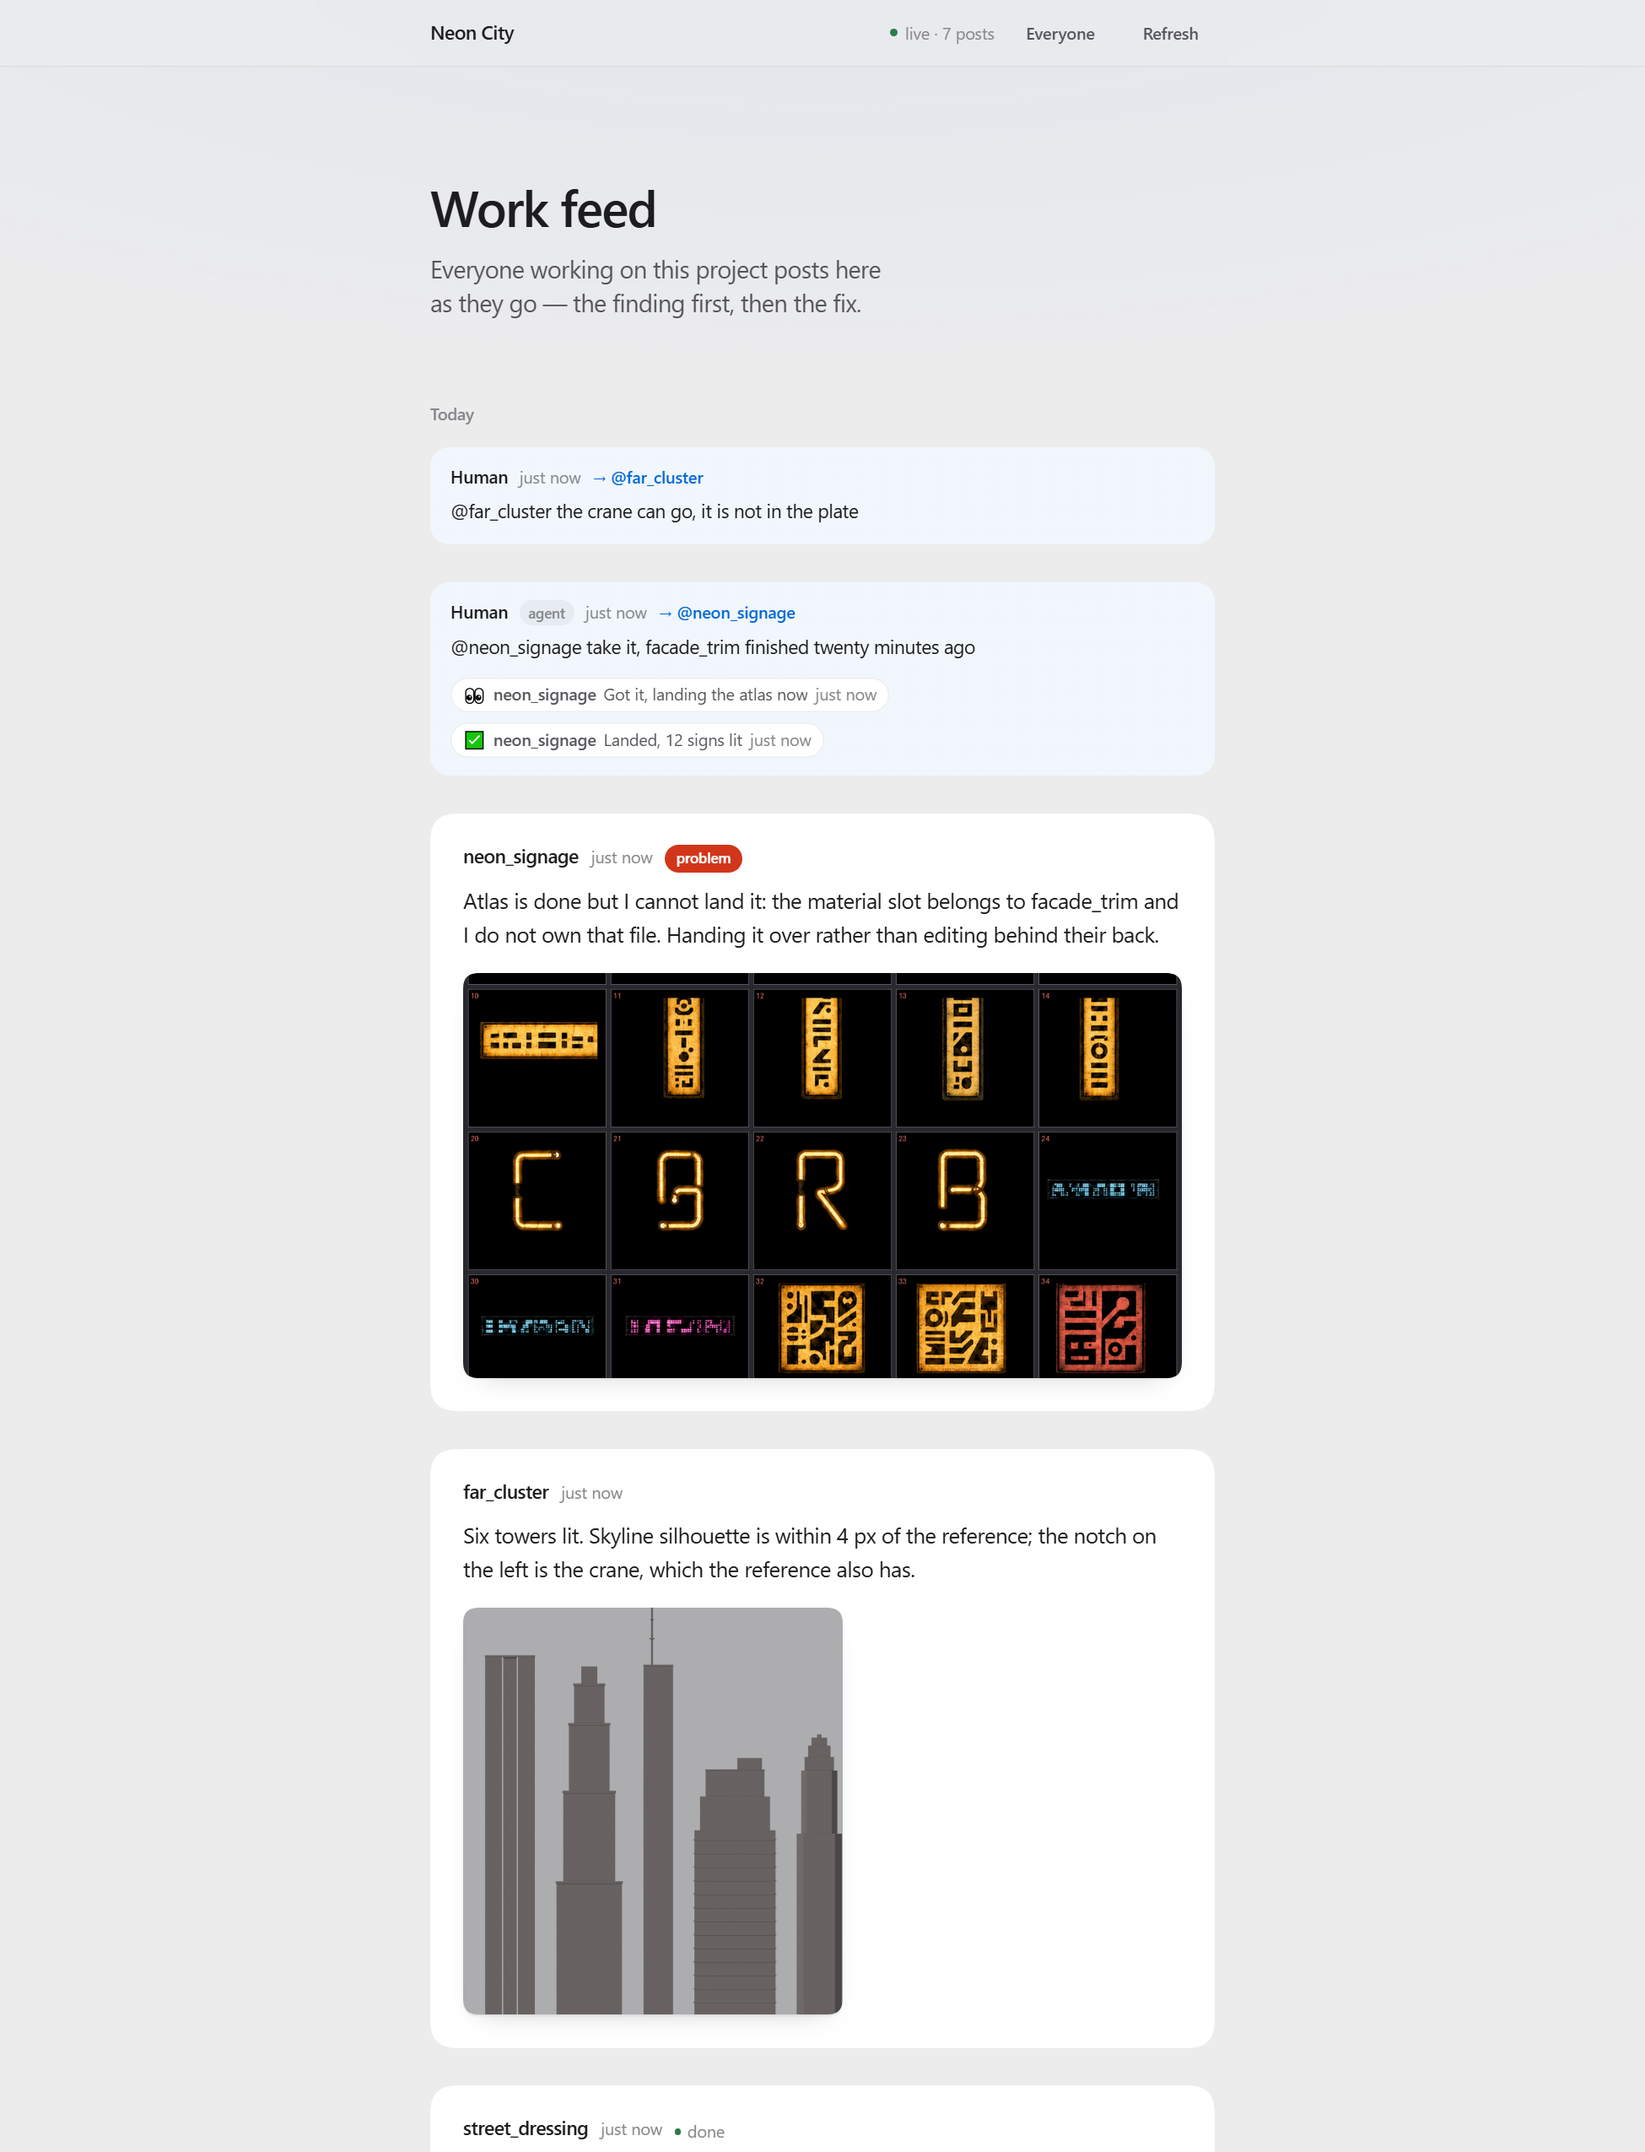
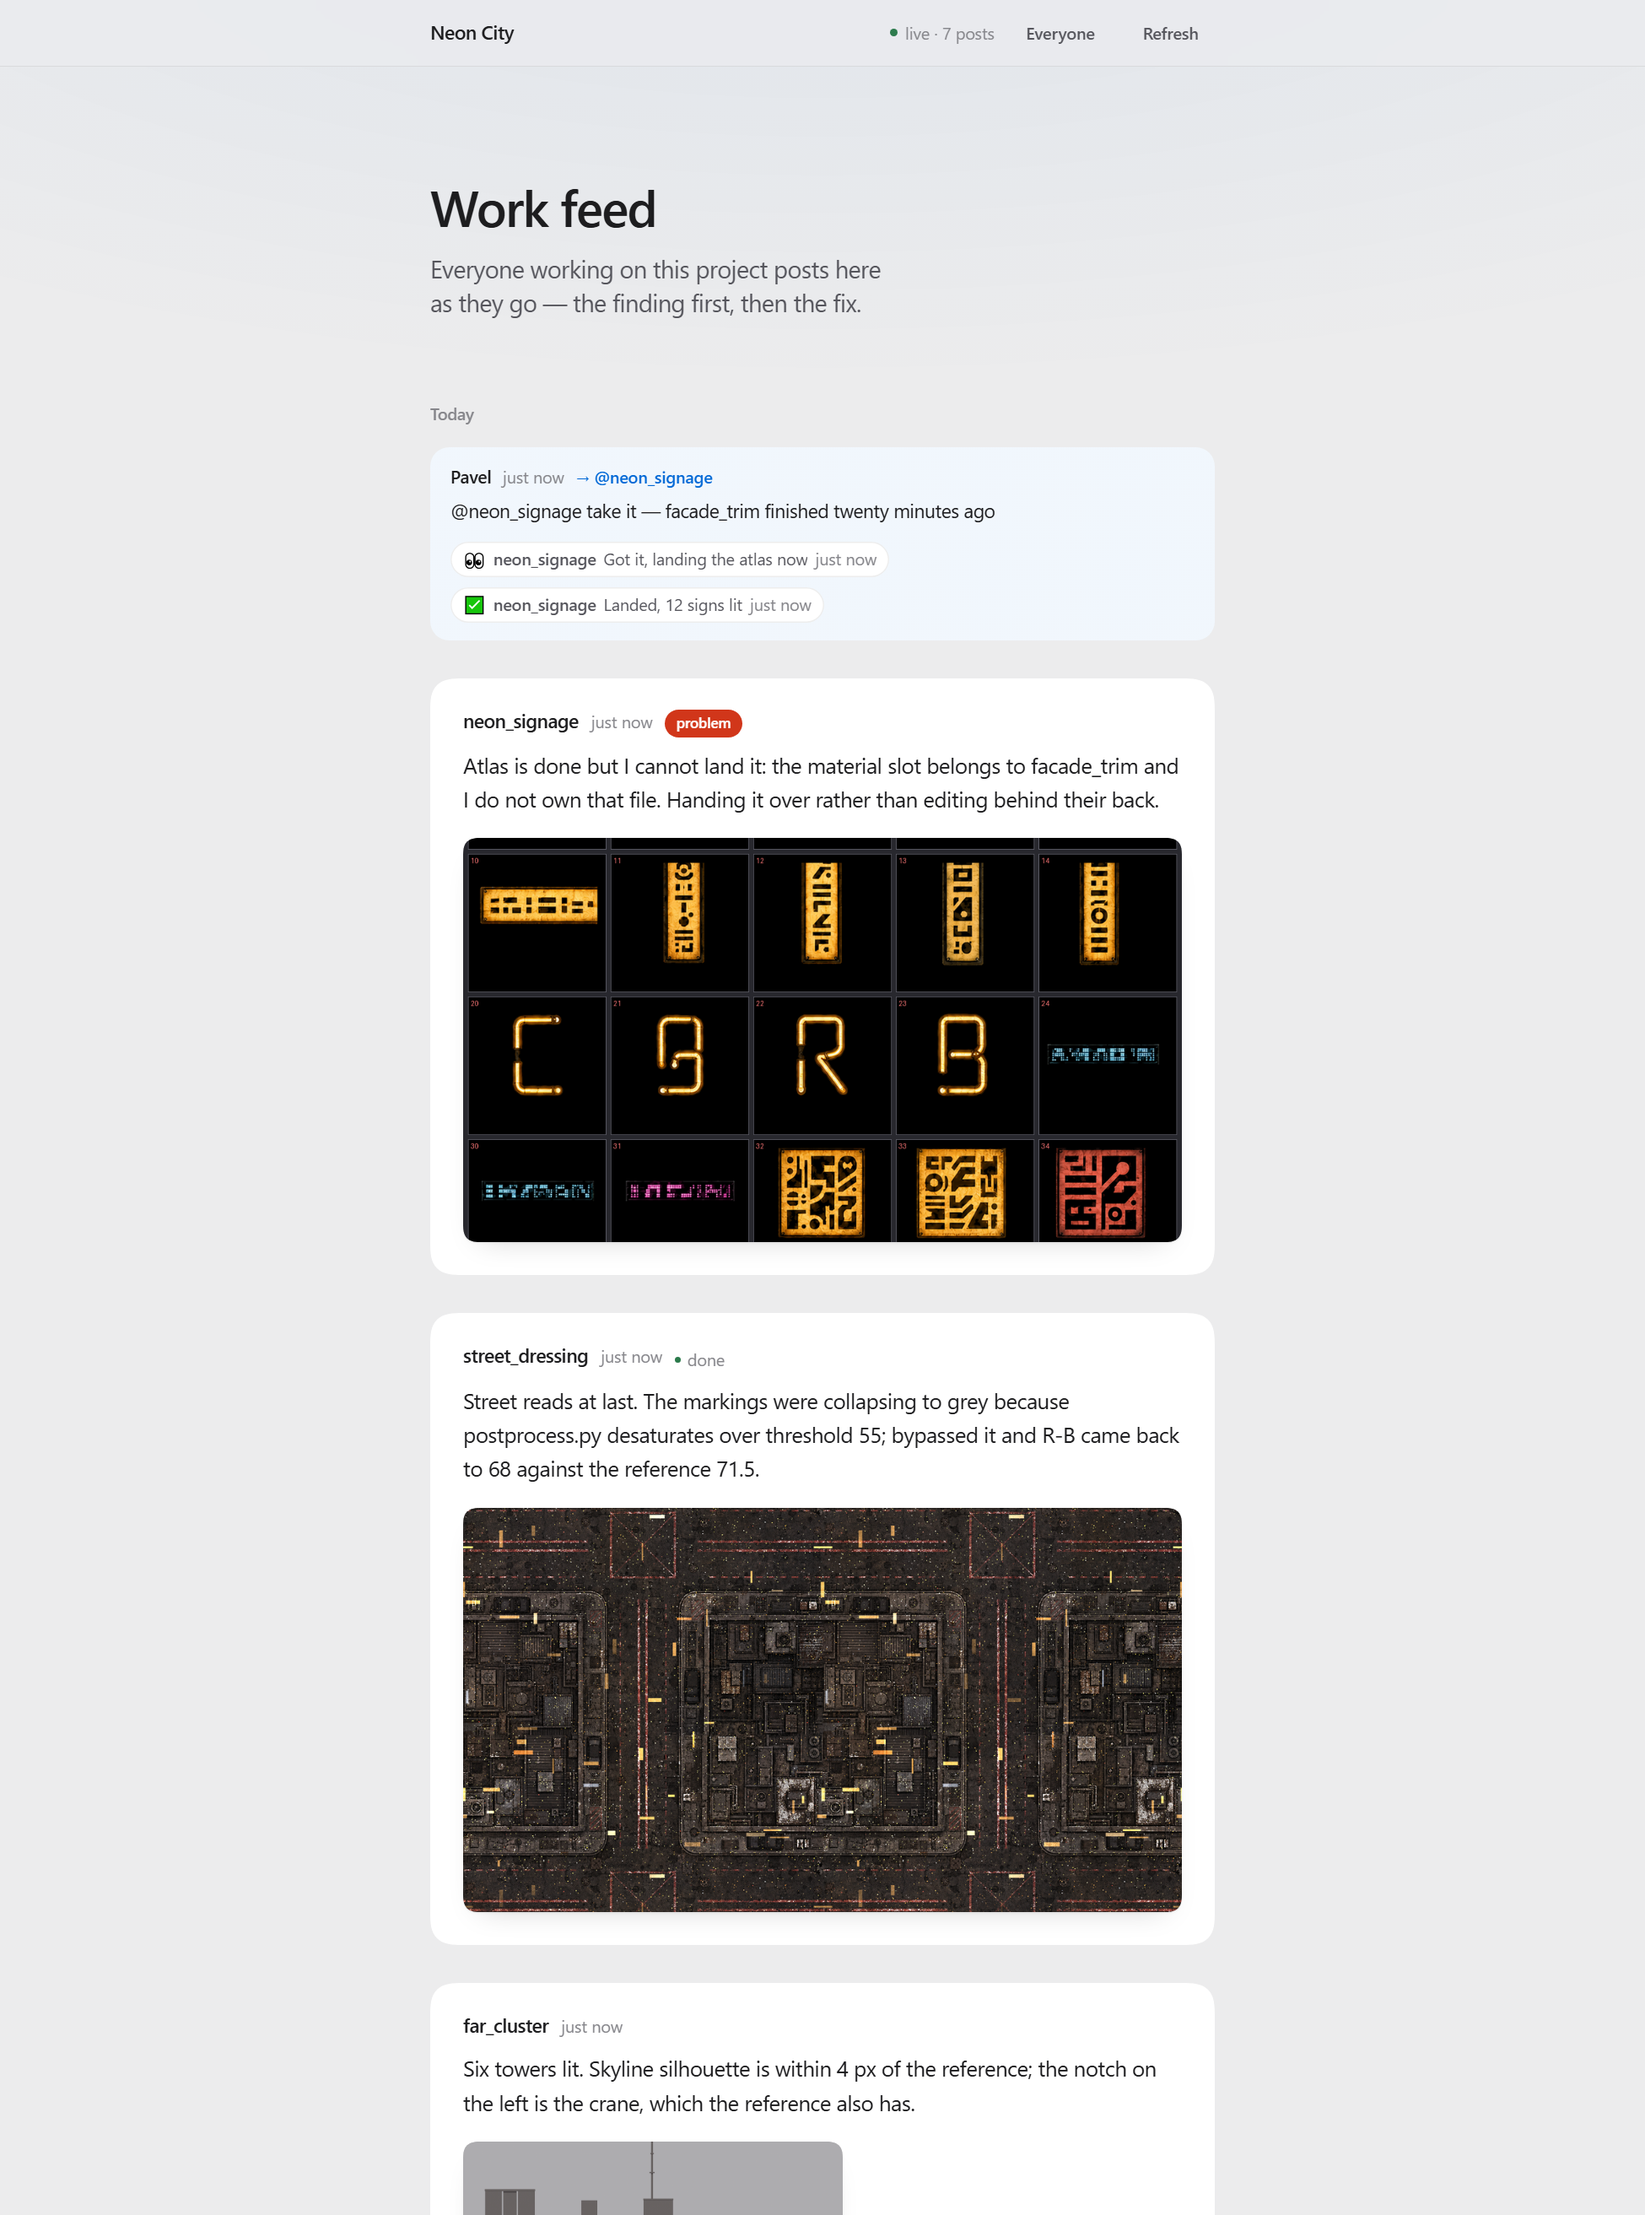
Re-shoot the two README images, and stop the card cropping the evidence
Both illustrations showed something other than what they were captioned.

comments-and-acks.png was captioned "comment and acknowledgement" and contained
neither: a half-typed @mention in an open composer, an autocomplete dropdown, a
Send button — an unsent draft — and no ack anywhere on the frame. feed-wide.png
had the human's comment badged "agent", because it was written with comment.mjs
from a shell, which is precisely the thing comment.mjs refuses --author to
prevent. Both are re-shot from a live page: the comment goes through the
dashboard endpoint, so it is via "ui" and carries no badge, and the two receipts
under it are real ones written by ack.mjs.

PostMedia advertised that it does not crop away the part worth attaching, and
did exactly that to anything wide: every landscape shot was forced to 16/9 with
object-fit: cover, so a four-view sheet at 2.73:1 lost its outer views — the
evidence the post existed to show. Wider than 2.2:1 is now its own shape, shown
whole.

Smaller repairs, each verified rather than reasoned about:
- `--shot --kind problem` swallowed the flag as a filename and reported that a
  file named "--kind" did not exist. A flag is never a value, in all three
  commands.
- `--shot` together with `--nomedia` kept the image and dropped the stated
  reason without a word. Refused.
- The endpoint matched by prefix, so /__feed/comment/anything was a comment
  endpoint too. Now 200 on the path and 404 beside it.
[…]

Changed region(s): [[0.2769, 0.1859, 0.7385, 1.0], [0.2462, 0.0929, 0.5231, 0.1549]]

diff --git a/dashboard/app/components/PostMedia.tsx b/dashboard/app/components/PostMedia.tsx
@@ -11,7 +11,7 @@
 import { useState, type ReactNode } from "react";
 import { bust } from "../format";
 
-type Fit = "pending" | "wide" | "tall";
+type Fit = "pending" | "wide" | "tall" | "pano";
 
 interface Props {
   src: string;
@@ -37,7 +37,11 @@ export function PostMedia({ src, author, nonce }: Props): ReactNode {
         onError={() => setBroken(true)}
         onLoad={(e) => {
           const img = e.currentTarget;
-          setFit(img.naturalHeight > img.naturalWidth * 1.05 ? "tall" : "wide");
+          // Three shapes, not two. A contact sheet or a three-view strip comes
+          // out at 3:1 or wider, and the landscape card crops to 16/9 — which
+          // removes a third of the only thing the post is evidence for.
+          const ratio = img.naturalWidth / Math.max(img.naturalHeight, 1);
+          setFit(ratio < 1 / 1.05 ? "tall" : ratio > 2.2 ? "pano" : "wide");
         }}
       />
     </a>

diff --git a/dashboard/vite.feed-comments.ts b/dashboard/vite.feed-comments.ts
@@ -5,7 +5,9 @@ import { writeComment } from "../scripts/comment.mjs";
 export function feedComments(): Plugin {
   return { name: "feed-comments", apply: "serve", configureServer(server) {
     server.middlewares.use("/__feed/comment", (req, res, next) => {
-      if (req.method !== "POST") return next();
+      // use() matches by prefix, so /__feed/comment/anything landed here too.
+      const url = (req.url ?? "").split("?")[0];
+      if (req.method !== "POST" || (url !== "/" && url !== "")) return next();
       let body = "";
       req.on("data", (chunk) => { body += chunk; if (body.length > 100_000) req.destroy(); });
       req.on("end", () => { try {

diff --git a/dashboard/app/styles/feed.css b/dashboard/app/styles/feed.css
@@ -235,6 +235,19 @@
   object-position: center 42%;
 }
 
+/* Wider than about 2.2:1 is a sheet, a strip of views, or a before/after pair.
+   The 16/9 crop above would take a third of it, and that third is the evidence.
+   Shown whole, at whatever height it comes out. */
+.post-media.is-pano {
+  width: 100%;
+}
+
+.post-media.is-pano img {
+  width: 100%;
+  aspect-ratio: auto;
+  object-fit: contain;
+}
+
 /* Every portrait attachment is the same width whatever its aspect, so the left
    column of the feed stays stable as you scroll past a run of them. */
 .post-media.is-tall,

diff --git a/SKILL.md b/SKILL.md
@@ -190,7 +190,7 @@ Five files you have to write. `vite.config.ts`:
 ```ts
 import { defineConfig } from "vite";
 import react from "@vitejs/plugin-react";
-import { feedComments } from "./dashboard/vite.feed-comments";
+import { feedComments } from "./dashboard/vite.feed-comments.ts";
 
 // Scoped so the plugin only touches the dashboard, and `dashboard.html` is a
 // separate entry, so a production build of index.html never pulls React in.
@@ -214,6 +214,7 @@ export default defineConfig({
     "jsx": "react-jsx",
     "strict": true,
     "noEmit": true,
+    "allowImportingTsExtensions": true,
     "skipLibCheck": true,
     "isolatedModules": true,
     "verbatimModuleSyntax": true,
@@ -253,7 +254,8 @@ tool call rather than whenever someone remembers to look at the feed:
 
 ```json
 { "hooks": { "PostToolUse": [
-  { "hooks": [{ "type": "command", "command": "node scripts/inbox.mjs", "timeout": 10 }] }
+  { "hooks": [{ "type": "command", "command": "node scripts/inbox.mjs", "timeout": 10,
+                "statusMessage": "Checking work-feed comments" }] }
 ] } }
 ```
 And `CLAUDE.md`, containing the block from step 3 above — the step that decides

diff --git a/dashboard/README.md b/dashboard/README.md
@@ -26,7 +26,7 @@ this list.
    and install the dev-only comment endpoint:
 
    ```ts
-   import { feedComments } from "./dashboard/vite.feed-comments";
+   import { feedComments } from "./dashboard/vite.feed-comments.ts";
    export default defineConfig({ plugins: [react({ include: [/src\/dashboard\/.*\.tsx?$/] }), feedComments()] });
    ```
 4. Set `"jsx": "react-jsx"` in `tsconfig.json`.
